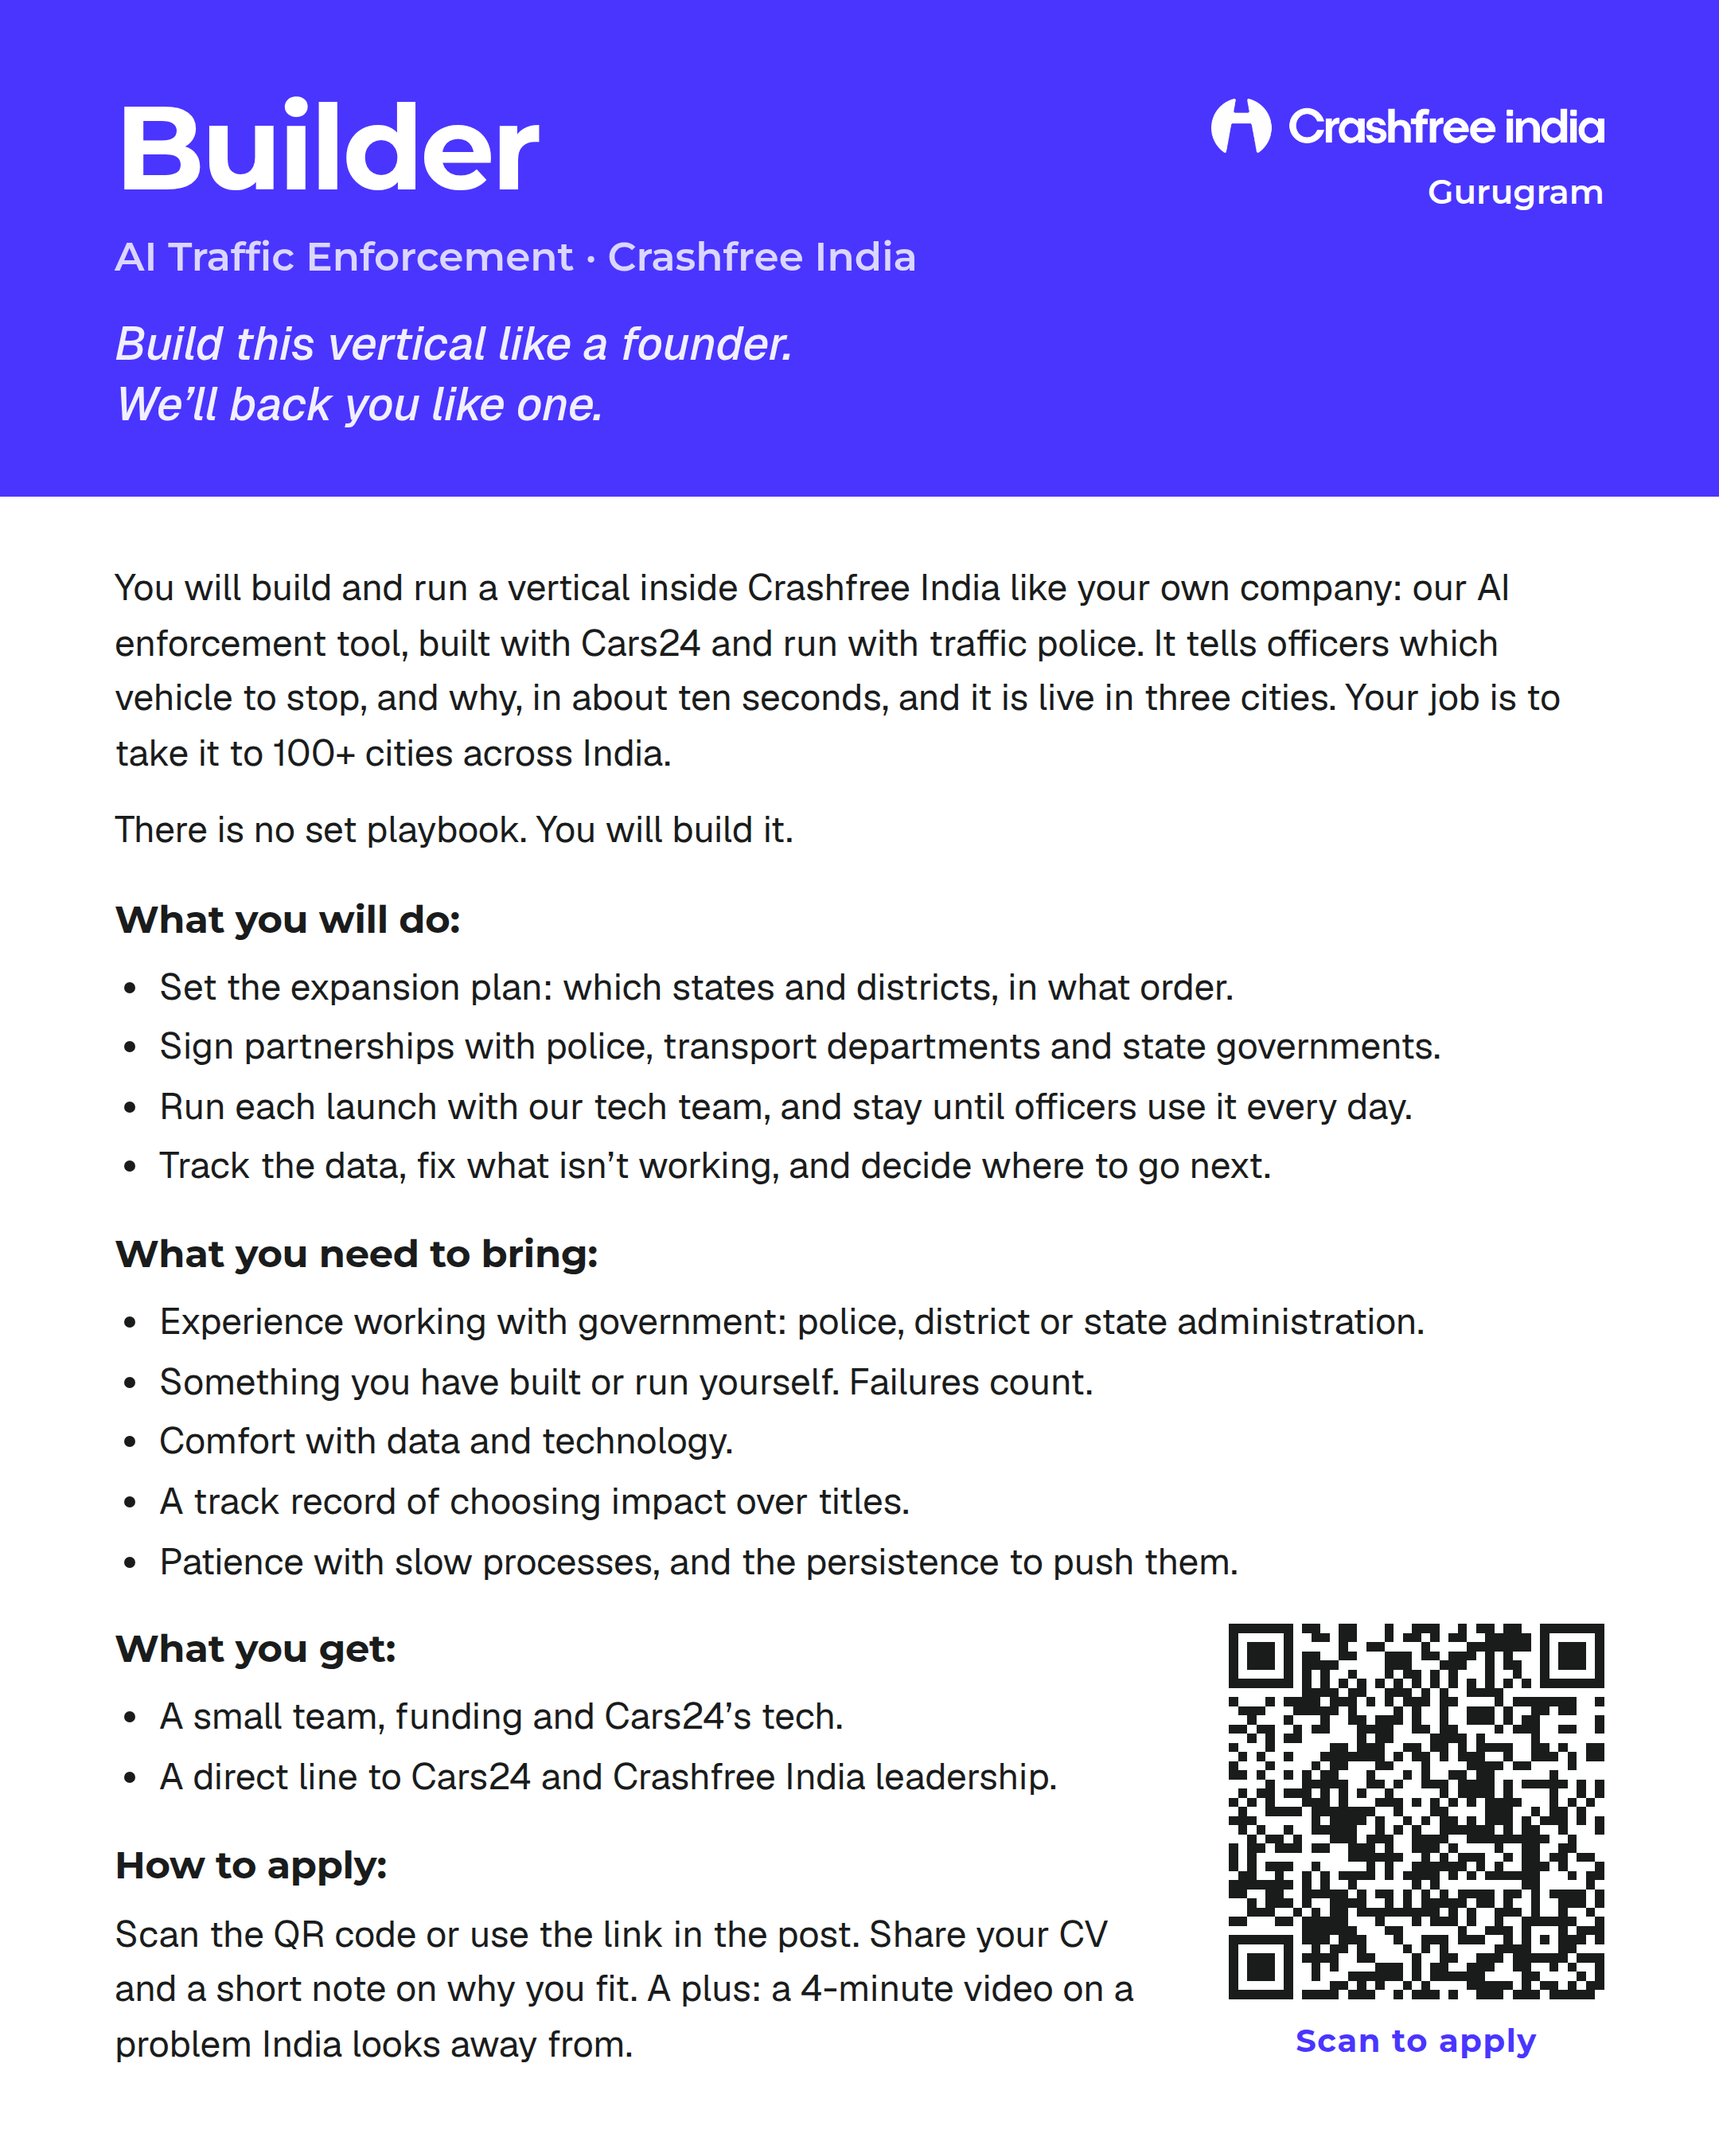
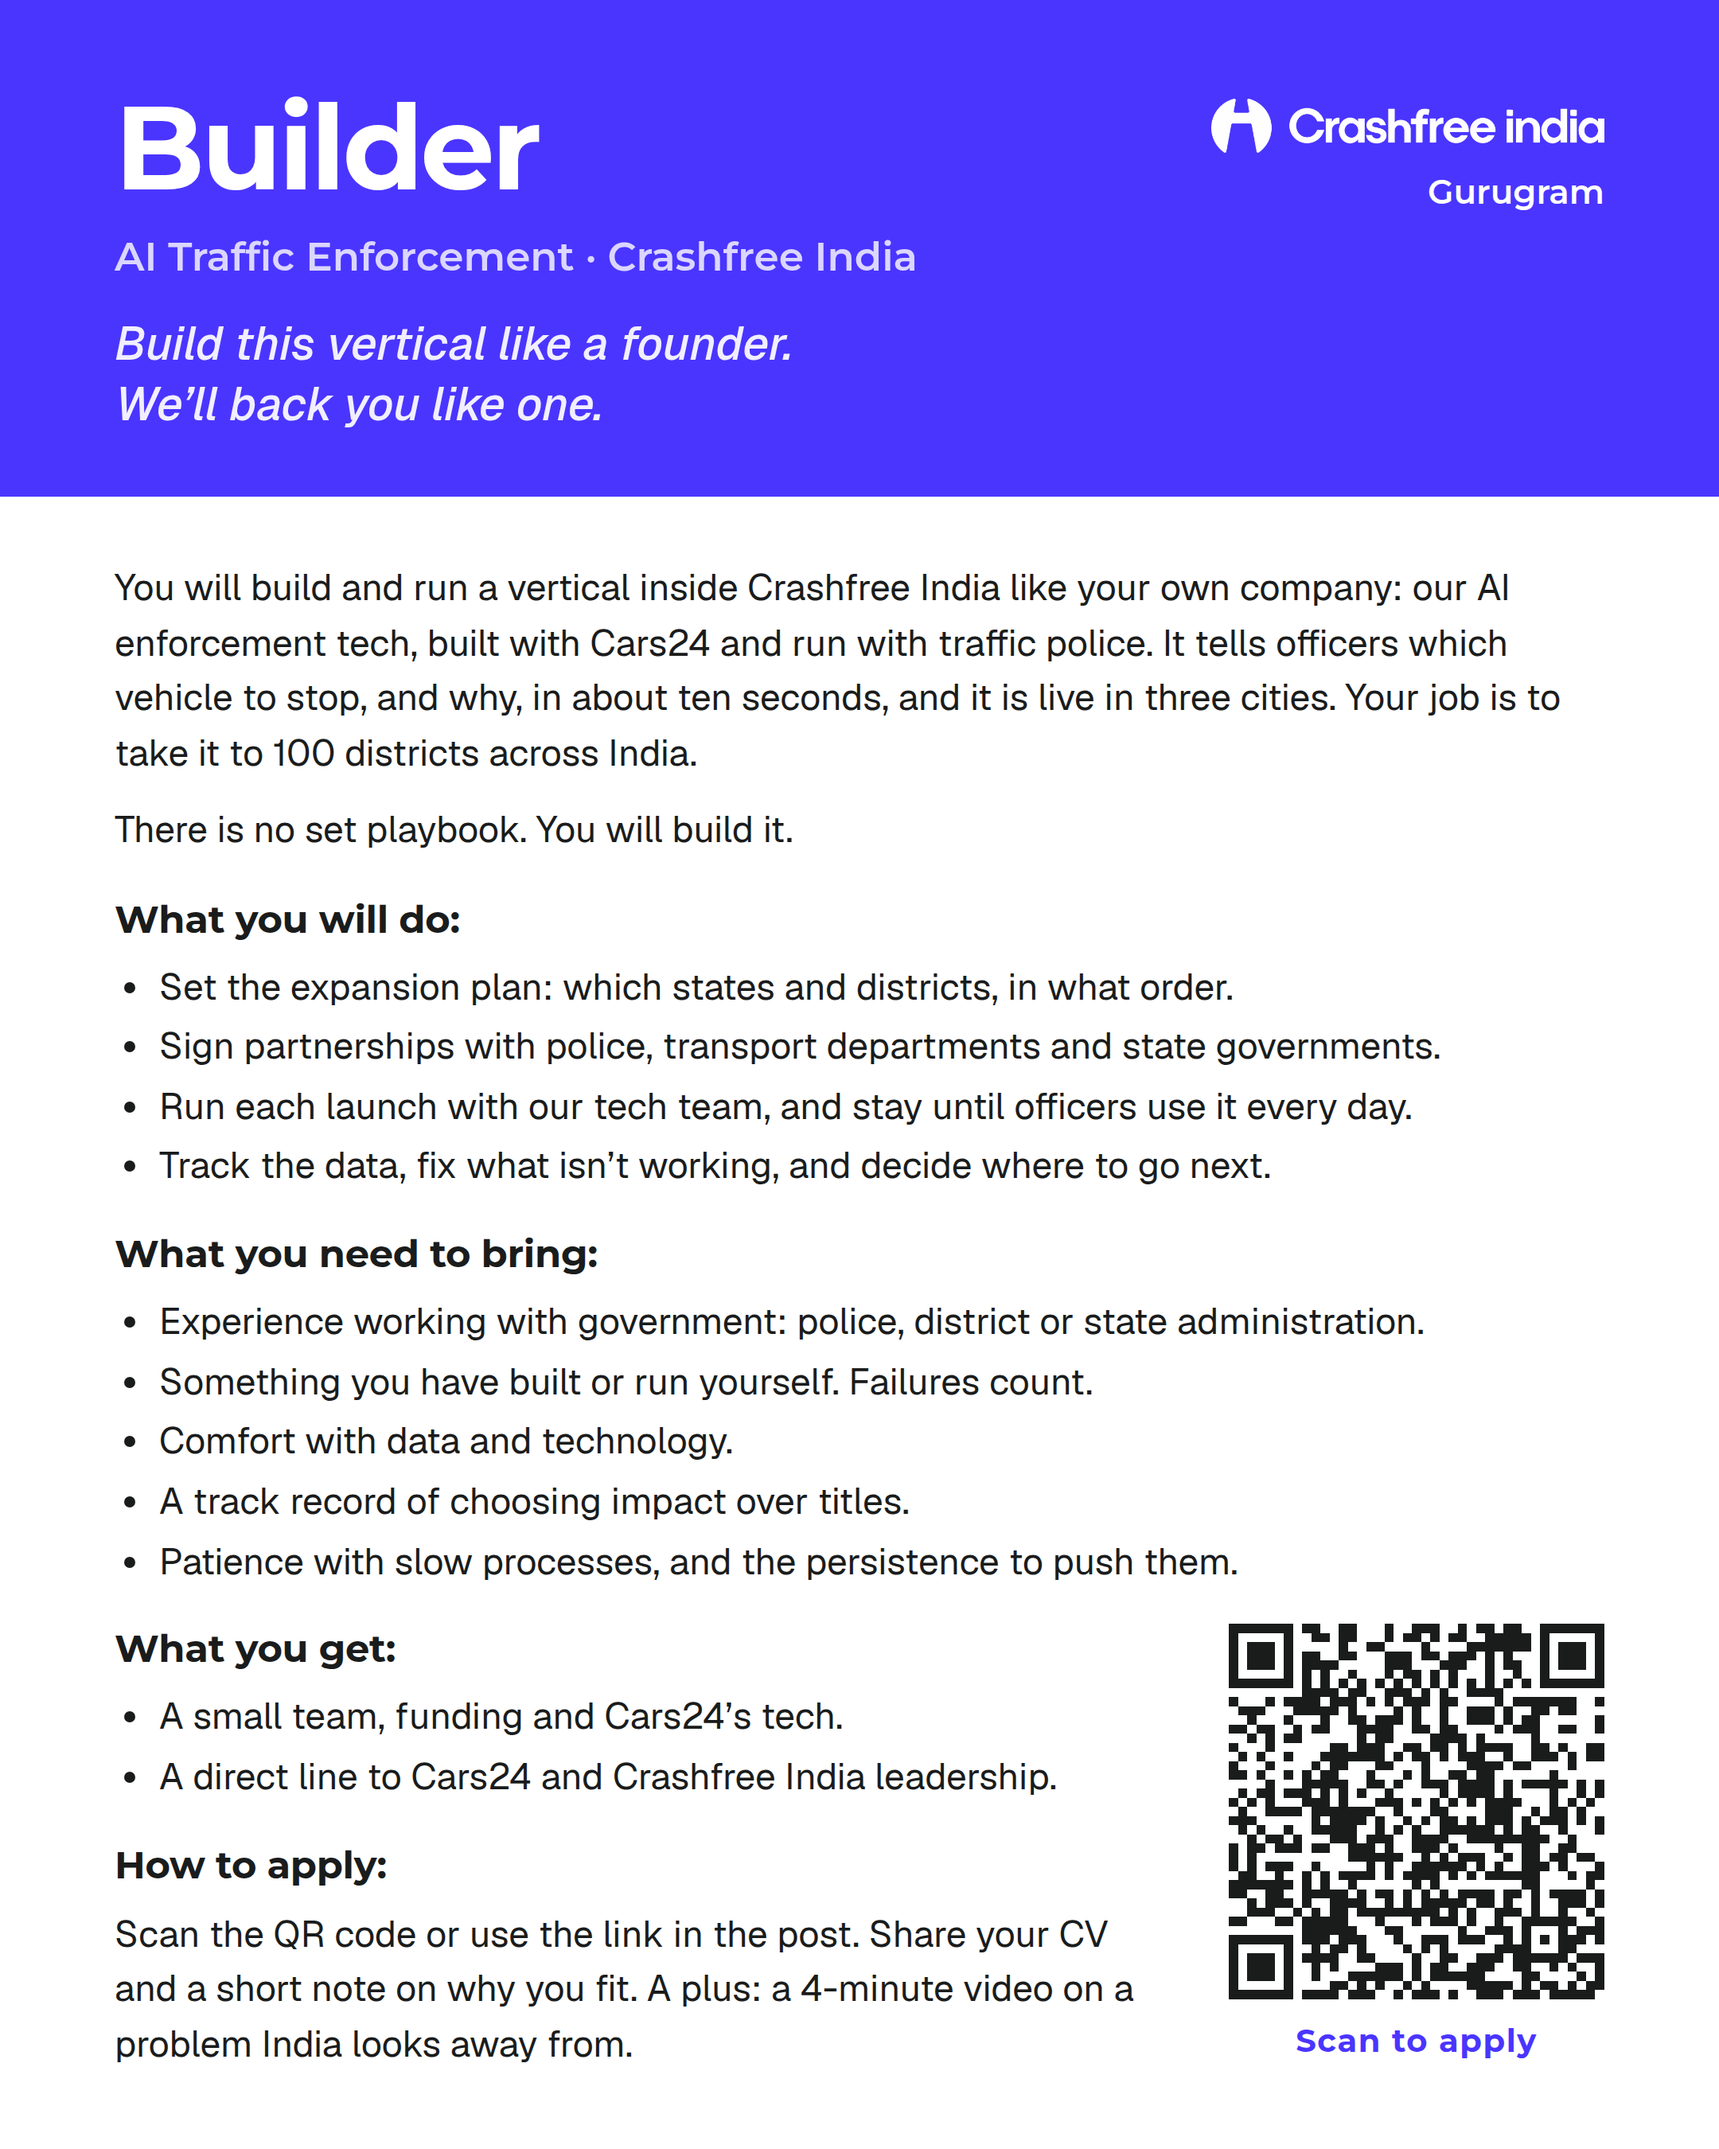
Use 'AI enforcement tech' and '100 districts' across LinkedIn set and drafts
Replaces 'tool' with 'AI enforcement tech' and '100+ cities' with '100 districts'
on both pages, the post copy and the past-applicant email draft. The sent UPSC
email is left as sent. QR re-verified on the new render.

Claude-Session: https://claude.ai/code/session_018j4A9e7gCuU8GZCtHhJEqG

Changed region(s): [[0.2171, 0.28, 0.8685, 0.3111], [0.1861, 0.3422, 0.4032, 0.3733]]

diff --git a/hiring/outreach/linkedin/page2.html b/hiring/outreach/linkedin/page2.html
@@ -59,7 +59,7 @@
   </header>
 
   <main>
-    <p>You will build and run a vertical inside Crashfree India like your own company: our AI enforcement tool, built with Cars24 and run with traffic police. It tells officers which vehicle to stop, and why, in about ten seconds, and it is live in three cities. Your job is to take it to 100+ cities across India.</p>
+    <p>You will build and run a vertical inside Crashfree India like your own company: our AI enforcement tech, built with Cars24 and run with traffic police. It tells officers which vehicle to stop, and why, in about ten seconds, and it is live in three cities. Your job is to take it to 100 districts across India.</p>
     <p>There is no set playbook. You will build it.</p>
 
     <h2>What you will do:</h2>

diff --git a/hiring/outreach/linkedin/page1.html b/hiring/outreach/linkedin/page1.html
@@ -58,7 +58,7 @@
   <div class="hero">
     <div class="role">Builder · AI Traffic Enforcement</div>
     <h1><span class="dim">Build it</span><br>like a founder.</h1>
-    <p class="line">Take AI traffic enforcement to 100+ cities<br>across India, and bring road crashes down.</p>
+    <p class="line">Take AI enforcement tech to 100 districts<br>across India, and bring road crashes down.</p>
     <p class="line2">A team, funding and Cars24 behind you.</p>
   </div>
 

diff --git a/hiring/outreach/linkedin/LinkedIn_Post.md b/hiring/outreach/linkedin/LinkedIn_Post.md
@@ -4,7 +4,7 @@
 **Images (post both, in order):** `Builder_Page1.png` (Build it like a founder) → `Builder_Page2.png` (details + QR). Or upload `Builder_2pager.pdf` as a LinkedIn document post.
 **Apply via form:** https://docs.google.com/forms/d/e/1FAIpQLSca87XK-RDxZc6WWM8XZ6NGoBywC8NjU8Jlx6IDQDjGZrZNsg/viewform
 **QR:** `apply_qr.png` / `apply_qr.svg` — static QR encoding the form URL directly (no redirect service), so it does not expire; it works as long as the form stays live and accepting responses. Verified to decode from the rendered page, including at phone size.
-**v7 (28 Sep):** two pages; front line "Take AI traffic enforcement to 100+ cities across India, and bring road crashes down."; applications move to the Google Form.
+**v7 (28 Sep):** two pages; front line "Take AI enforcement tech to 100 districts across India, and bring road crashes down." (29 Sep: "tool" → "AI enforcement tech", "100+ cities" → "100 districts" everywhere); applications move to the Google Form.
 
 ---
 
@@ -14,7 +14,7 @@ Build it like a founder. We'll back you like one.
 
 I'm hiring a builder at Crashfree India, Cars24's long-term commitment to road safety: someone to build and run a vertical like it's their own company.
 
-The vertical is SATARK, our AI enforcement tool. It reads number plates, checks them against government records, and tells traffic police which vehicle to stop, and why, in about ten seconds. It started as the Challan Billboard at Bengaluru's Trinity Circle and runs today with police in three cities. Your job is to take it to 100+ cities across India.
+The vertical is SATARK, our AI enforcement tech. It reads number plates, checks them against government records, and tells traffic police which vehicle to stop, and why, in about ten seconds. It started as the Challan Billboard at Bengaluru's Trinity Circle and runs today with police in three cities. Your job is to take it to 100 districts across India.
 
 Why it matters: India loses around 1.7 lakh people on its roads every year. Much of it is systemic. Violations get caught, challans get issued, and then nothing happens.
 
@@ -41,7 +41,7 @@ Build it like a founder. We'll back you like one.
 
 I'm hiring someone to lead the national expansion of SATARK at Crashfree India, Cars24's long-term commitment to road safety.
 
-SATARK is an AI enforcement tool that tells traffic police which vehicle to stop, and why, in about ten seconds. It began as the Challan Billboard at Bengaluru's Trinity Circle. Today it runs with police in three cities. Next, it goes national.
+SATARK is AI enforcement tech that tells traffic police which vehicle to stop, and why, in about ten seconds. It began as the Challan Billboard at Bengaluru's Trinity Circle. Today it runs with police in three cities. Next, it goes national.
 
 Why it matters: India loses around 1.7 lakh people on its roads every year, and much of it is systemic. Violations get caught, challans get issued, and then nothing happens.
 
@@ -61,7 +61,7 @@ Gurugram, with travel across India.
 
 Build it like a founder. We'll back you like one.
 
-I'm hiring someone to take SATARK, our AI traffic-enforcement tool, from three cities to the rest of India. It tells police which vehicle to stop, and why, in about ten seconds.
+I'm hiring someone to take SATARK, our AI enforcement tech, from three cities to the rest of India. It tells police which vehicle to stop, and why, in about ten seconds.
 
 You'd run it like your own startup: win over police chiefs and state governments, launch cities, and stay until officers use it every day. A team, funding and Cars24 are behind you.
 
@@ -73,7 +73,7 @@ Gurugram, with travel across India.
 
 A billboard in Bengaluru once read passing number plates and showed drivers their pending challans in about ten seconds. It went viral.
 
-We turned that idea into SATARK, a tool that tells traffic police which vehicle to stop, and why. It now runs with police in three cities.
+We turned that idea into SATARK, AI enforcement tech that tells traffic police which vehicle to stop, and why. It now runs with police in three cities.
 
 Now I need one person to take it across India and run it like their own startup. You'll sit across police chiefs and state governments, sign them, launch cities, and stay until officers use it every day. You'll have a team, funding, Cars24's tech and a direct line to leadership.
 
@@ -85,7 +85,7 @@ We're not testing polish. We're testing conviction.
 
 There's more than one way to serve the country.
 
-I'm hiring someone to lead SATARK, Crashfree India's AI enforcement tool, from three cities to the rest of India. It tells traffic police which vehicle to stop, and why, in about ten seconds, turning records that already exist into action on the road.
+I'm hiring someone to lead SATARK, Crashfree India's AI enforcement tech, from three cities to the rest of India. It tells traffic police which vehicle to stop, and why, in about ten seconds, turning records that already exist into action on the road.
 
 The job is part founder, part diplomat: win over police chiefs and state governments, launch cities, stay until officers use it every day, and decide where we go next. A team, funding and Cars24 are behind you.
 
@@ -103,7 +103,7 @@ Hi {First name},
 
 Earlier this year you applied for the Chief of Staff role at Crashfree India. We didn't take that forward, but a new role has opened that may suit you better, and your application made us think of you.
 
-We're hiring someone to lead the national expansion of SATARK, our AI enforcement tool that tells traffic police which vehicle to stop, and why. It began as the Challan Billboard in Bengaluru and now runs with police in three cities. The role is to run it like your own startup, with a team, funding and Cars24 behind you.
+We're hiring someone to lead the national expansion of SATARK, our AI enforcement tech that tells traffic police which vehicle to stop, and why. It began as the Challan Billboard in Bengaluru and now runs with police in three cities. The role is to run it like your own startup, with a team, funding and Cars24 behind you.
 
 Details are in the attached one-pager. If it's for you, write to gajendra@crashfreeindia.org by {date} with the subject "Founding Role": your CV and a 4-minute video on a problem India looks away from.
 
@@ -114,7 +114,7 @@ Crashfree India
 
 **LinkedIn DM / WhatsApp (short)**
 
-Hi {First name}, you applied for our Chief of Staff role earlier this year. We've since opened a founding role: lead SATARK, our AI traffic-enforcement tool, across India, with a team, funding and Cars24 behind you. Your application made us think of you. Details: {post link}. To apply, send your CV and a 4-minute video on a problem India looks away from to gajendra@crashfreeindia.org, subject "Founding Role", by {date}.
+Hi {First name}, you applied for our Chief of Staff role earlier this year. We've since opened a founding role: lead SATARK, our AI enforcement tech, across India, with a team, funding and Cars24 behind you. Your application made us think of you. Details: {post link}. To apply, send your CV and a 4-minute video on a problem India looks away from to gajendra@crashfreeindia.org, subject "Founding Role", by {date}.
 
 ---
 

diff --git a/hiring/outreach/Outreach_Email_CoS.md b/hiring/outreach/Outreach_Email_CoS.md
@@ -23,7 +23,7 @@ You already know why Crashfree India exists. Every year, India records around fi
 
 One of those systems is enforcement, and it's where we've already proven something. It started as a billboard: in Bengaluru, with the city traffic police, we put up India's first AI billboard at Trinity Circle. Cameras read a number plate, check it against government records, and flash pending challans, lapsed insurance and expired PUC on a screen in about ten seconds. It went viral. ([Deccan Herald](https://www.deccanherald.com/india/karnataka/bengaluru/big-boss-watching-digital-billboard-at-bengalurus-trinity-circle-displays-traffic-violations-in-real-time-3741955) · [Media4Growth](https://www.media4growth.com/showcase/campaigns/bengalurus-ai-billboard-by-cars24-puts-traffic-violations-on-the-big-screen-79885))
 
-That billboard became SATARK, the same engine, now a live tool with traffic police that tells an officer which vehicle to stop, and why, in real time. It runs in Jaipur, Bengaluru and Gurugram: 5.4 lakh+ vehicles screened, ₹53 crore+ in unpaid dues surfaced, 600+ interceptions. The billboard was the ad. SATARK is the product.
+That billboard became SATARK, the same engine, now AI enforcement tech live with traffic police that tells an officer which vehicle to stop, and why, in real time. It runs in Jaipur, Bengaluru and Gurugram: 5.4 lakh+ vehicles screened, ₹53 crore+ in unpaid dues surfaced, 600+ interceptions. The billboard was the ad. SATARK is the product.
 
 Now the reason for this email. I want to take SATARK to the 100 districts where India loses the most lives, by the end of 2027, and I need one person to build and run that vertical like it's their own startup. Not business development, not a policy desk, not a support seat: this one is yours to own. You'd sit across police commissioners, transport secretaries and ministries, convince them, sign them, and stay until officers are actually stopping vehicles. You'd have a small team of one or two strong people, and Cars24's engineering, installation and funding behind you. But nobody hands you a plan on Monday: the map of India is yours to draw.
 
